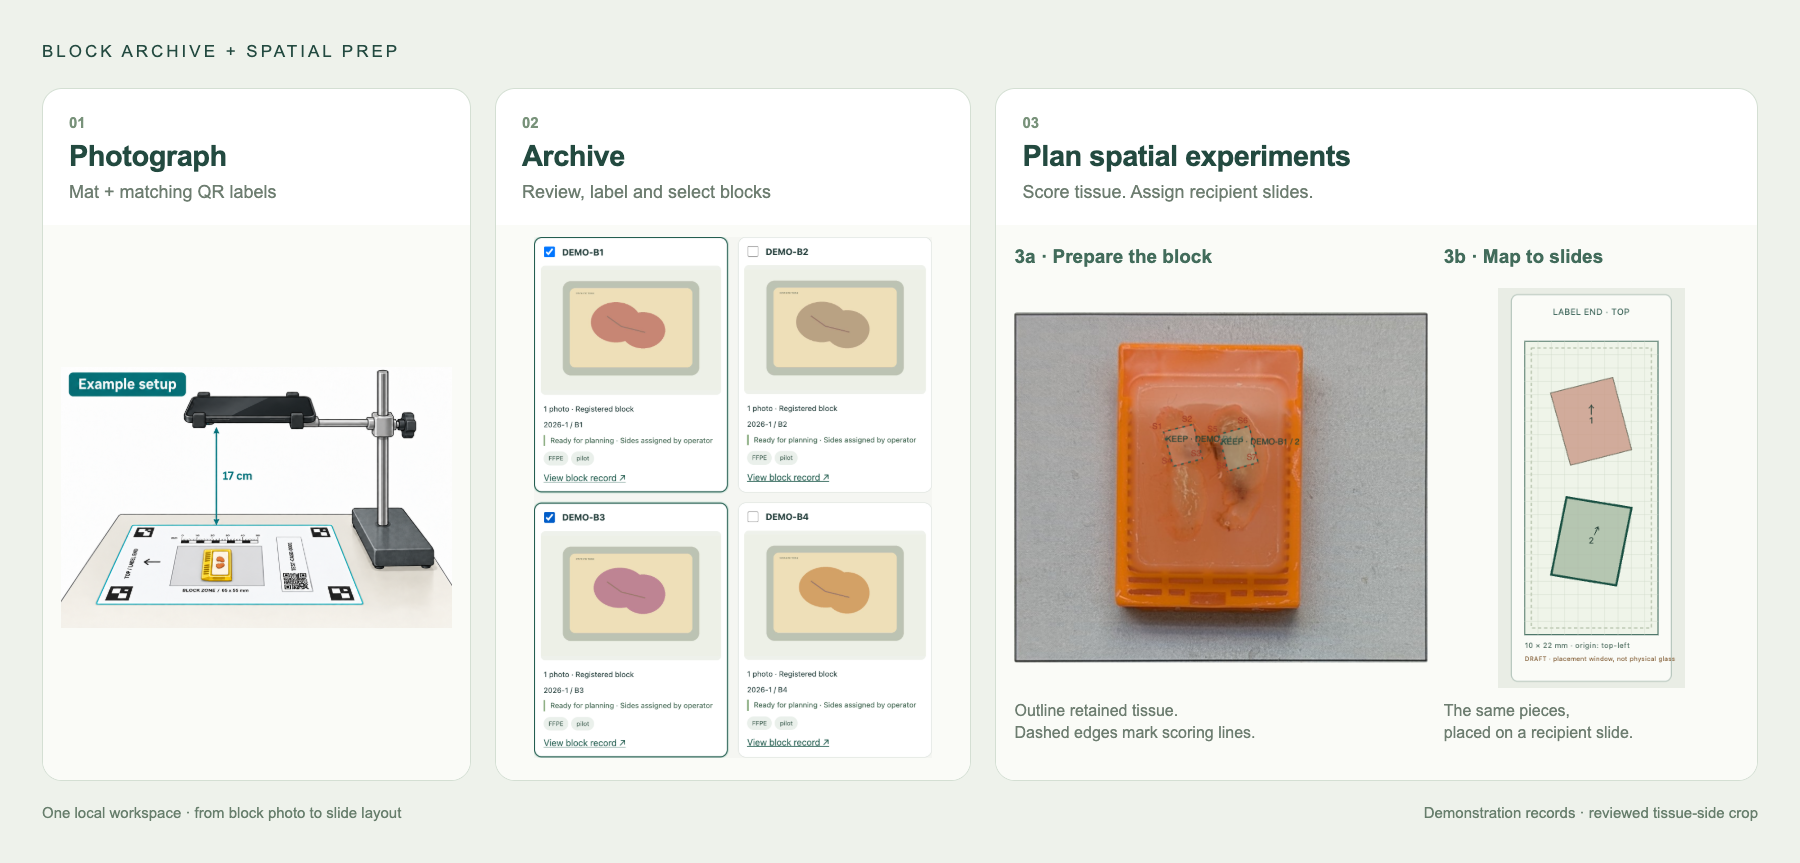
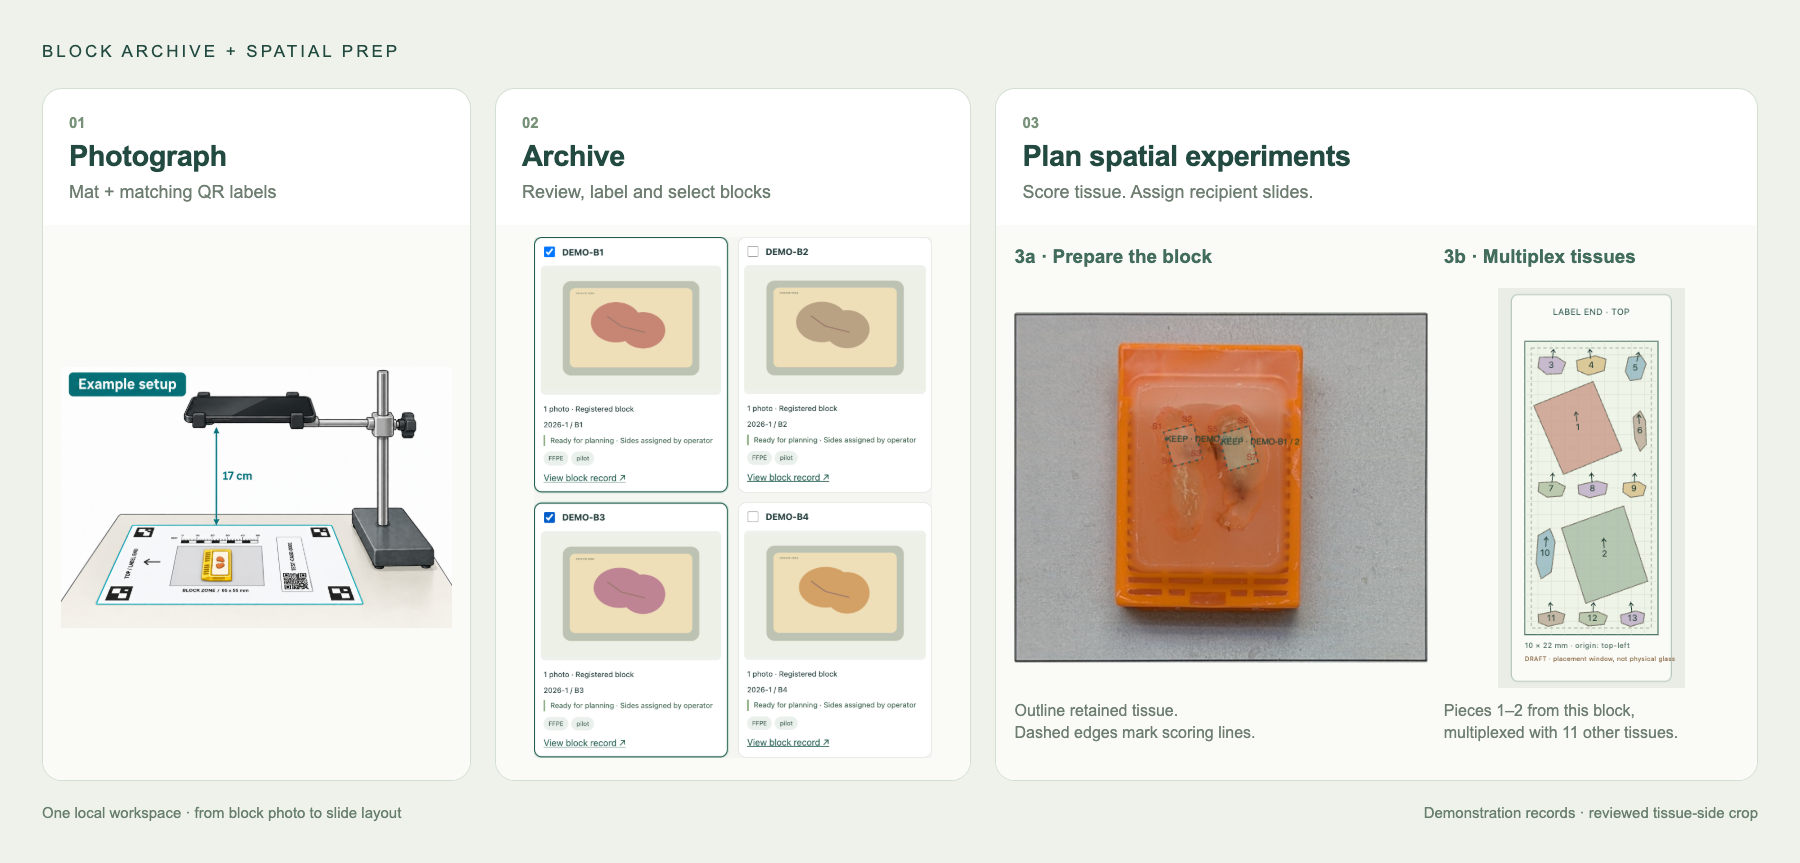
Illustrate retained patches in a multiplexed slide layout

Changed region(s): [[0.84, 0.3917, 0.9333, 0.7231], [0.8089, 0.8134, 0.9333, 0.8737], [0.84, 0.2711, 0.9022, 0.3013]]

diff --git a/tools/render_readme.py b/tools/render_readme.py
@@ -78,8 +78,26 @@ def main():
                     state=emptyExperiment('Pilot');
                     const points=[[[282,225],[338,211],[355,276],[300,290]],[[386,230],[443,214],[460,283],[403,299]]];
                     const b={id:'demo-block',name:'DEMO-B1',donor:'',photo,identifier:null,mmPerPx:65/780,calibration:null,orientation:'Label end up',notes:'Synthetic demonstration',scores:[],regions:points.map((p,i)=>({id:'piece-'+i,name:'DEMO-B1 / '+(i+1),points:p,color:['#ca9987','#a7baa3'][i]}))};
-                    state.blocks=[b];state.slides[0].placements=points.map((p,i)=>({id:'place-'+i,regionId:'piece-'+i,x:5,y:6+i*9,angle:i?25:0,mirror:false,confirmed:true,section:'Section '+(i+1)}));
-                    blockId=b.id;slideId=state.slides[0].id;selected='place-1';tab='slides';save();render();
+                    state.blocks=[b];state.slides[0].placements=points.map((p,i)=>({id:'place-'+i,regionId:'piece-'+i,x:i?6:4,y:i?16:6.5,angle:i?-4:-8,mirror:false,confirmed:true,section:'Section '+(i+1)}));
+                    // Additional demonstration blocks create a multiplexed layout.
+                    // Sizes are in millimetres; the photographed block keeps its real scale.
+                    const patches=[
+                        [2,1.8,2,1.4,8], [5,1.8,2.2,1.4,-6], [8.3,2,1.4,2,12],
+                        [8.65,6.7,.9,3,-5],
+                        [2,11.1,2,1.2,5], [5.1,11.1,2.2,1.2,-5], [8.2,11.1,1.7,1.2,3],
+                        [1.55,15.9,1.3,3.8,4],
+                        [2,20.8,2,1.1,-4], [5.1,20.8,2.1,1.1,3], [8.1,20.8,1.8,1.1,-7]
+                    ];
+                    const palette=['#bdacc7','#d7be85','#91b6be','#baa995','#afbea0'];
+                    patches.forEach(([x,y,w,h,angle],i)=>{
+                        const outline=[[0,.15*h],[.65*w,0],[w,.25*h],[.9*w,.85*h],[.35*w,h],[0,.7*h]];
+                        const region={id:'multiplex-'+i,name:'DEMO-B'+(i+2),points:outline,color:palette[i%palette.length]};
+                        state.blocks.push({id:'other-block-'+i,name:region.name,donor:'',photo:null,identifier:null,mmPerPx:1,calibration:null,orientation:'Demonstration',notes:'Illustrative tissue geometry',scores:[],regions:[region]});
+                        state.slides[0].placements.push({id:'other-place-'+i,regionId:region.id,x,y,angle,mirror:false,confirmed:true,section:'Section 1'});
+                    });
+                    blockId=b.id;slideId=state.slides[0].id;selected=null;tab='slides';save();render();
+                    const problems=issues(currentSlide()).filter(message=>/outside permitted|true polygon overlap|clearance is/.test(message));
+                    if(problems.length)throw Error(problems.join('; '));
                 }''',data_url(ROOT/'docs/assets/tissue-block.jpg'))
                 planning=folder/'planning.png';page.locator('#slideSvg').screenshot(path=str(planning))
                 page.evaluate("async () => {tab='blocks';render();await drawBlock()}")
@@ -91,7 +109,7 @@ def main():
                 for step,title,subtitle,path in cards:
                     html+=f'<section class="panel"><div class="head"><div class="step">{step}</div><h2>{title}</h2><p>{subtitle}</p></div>'
                     if step=='03':
-                        html+=f'<div class="image split"><div class="subpanel"><h3>3a · Prepare the block</h3><img src="{data_url(scoring)}"><p>Outline retained tissue.<br>Dashed edges mark scoring lines.</p></div><div class="subpanel"><h3>3b · Map to slides</h3><img src="{data_url(planning)}"><p>The same pieces,<br>placed on a recipient slide.</p></div></div>'
+                        html+=f'<div class="image split"><div class="subpanel"><h3>3a · Prepare the block</h3><img src="{data_url(scoring)}"><p>Outline retained tissue.<br>Dashed edges mark scoring lines.</p></div><div class="subpanel"><h3>3b · Multiplex tissues</h3><img src="{data_url(planning)}"><p>Pieces 1–2 from this block,<br>multiplexed with 11 other tissues.</p></div></div>'
                     else:
                         html+=f'<div class="image"><img src="{data_url(path)}"></div>'
                     html+='</section>'

diff --git a/docs/assets/README.md b/docs/assets/README.md
@@ -4,7 +4,7 @@
 
 1. The existing reviewed `planner/artefacts/examples/phone-stand-17cm.png` illustration. It is synthetic, not a photograph of patient material. The example height is not a universal calibration requirement.
 2. A screenshot of the actual inventory UI running in a fresh temporary archive, with four generated synthetic block images and `DEMO` identifiers. The fixed selection tray is hidden for the cropped panel.
-3. Two actual app captures: a real tissue-side crop with demonstration retained-piece outlines and dashed scoring lines, followed by those same pieces on a recipient slide. The outlines and placements are illustrative, not an actual experiment plan.
+3. Two actual app captures: a real tissue-side crop with demonstration retained-piece outlines and dashed scoring lines, followed by those same pieces (1–2) multiplexed with 11 additional demonstration tissue polygons on a recipient slide. The outlines and placements are illustrative, not an actual experiment plan.
 
 `tissue-block.jpg` is an existing tissue-side crop explicitly approved by the maintainer for this documentation. It was visually checked for visible identifiers and checked for EXIF, comments and XMP metadata before inclusion. It contains only the block and mat background; its filename and demonstration labels do not link to a case. The renderer reads this reviewed asset, not a live archive, OCR output or existing browser profile. No redaction is relied upon. The image was visually reviewed and its SHA-256 is recorded in `tools/reviewed-docs.sha256`; the publication audit rejects unreviewed binary changes.
 
